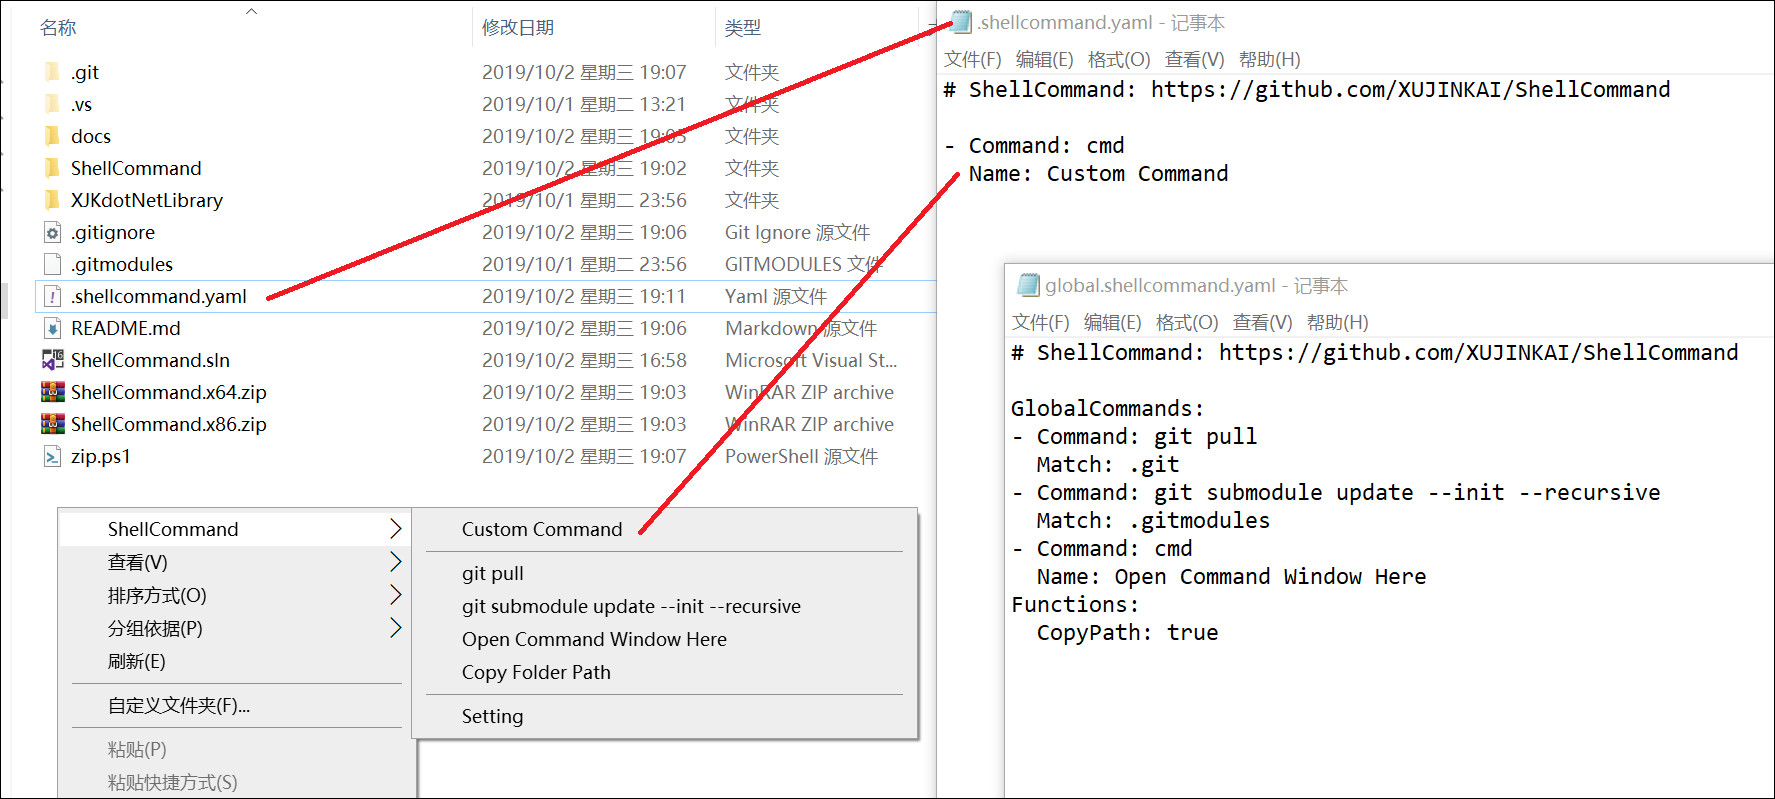
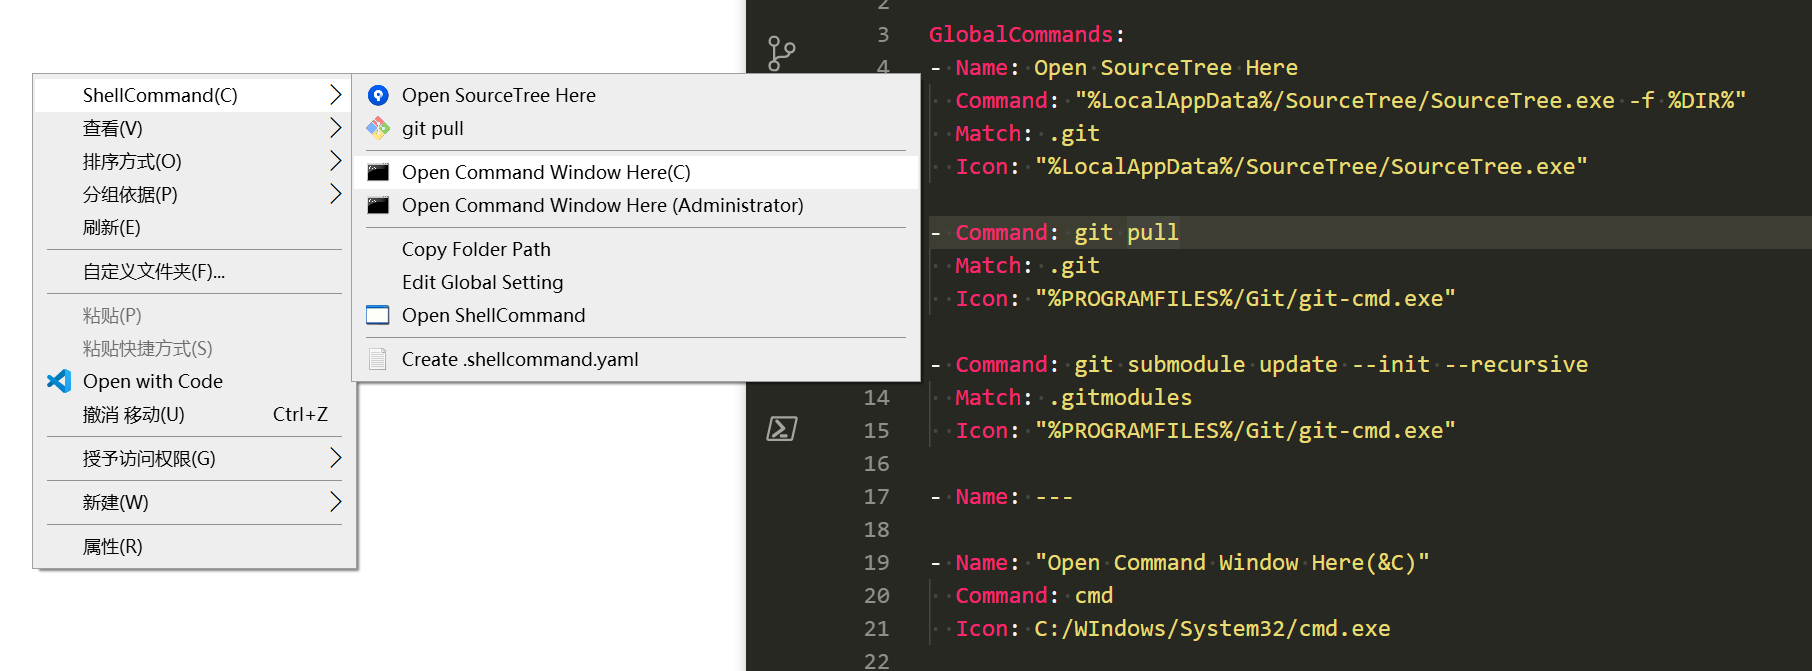
图标及文档

diff --git a/ShellCommand/Util/NativeLoader.cs b/ShellCommand/Util/NativeLoader.cs
@@ -1,0 +1,59 @@
+using System;
+using System.Collections.Generic;
+using System.Drawing;
+using System.Linq;
+using System.Runtime.InteropServices;
+using System.Text;
+using System.Threading.Tasks;
+
+namespace ShellCommand.Util
+{
+    class NativeLoader
+    {
+        public static Image LocaImage(string iconPath)
+        {
+            try
+            {
+                if (iconPath.Contains("?"))
+                {
+                    var splits = iconPath.Split('?');
+                    if (splits.Length != 2) throw new Exception("Icon Path can only have ONE '?' to select index.");
+                    var path = splits[0];
+                    var index = int.Parse(splits[1]);
+                    return ExtractDllIcon(path, index, false).ToBitmap();
+                }
+                var bitmap = Icon.ExtractAssociatedIcon(iconPath).ToBitmap();
+                bitmap = new Bitmap(bitmap, new Size(24, 24));
+                return bitmap;
+            }
+            catch (Exception ex)
+            {
+                Logger.LogException(ex);
+                return null;
+            }
+        }
+
+        public static Image GetShell32Icon(int number)
+        {
+            var shell32 = Environment.ExpandEnvironmentVariables(@"%SystemRoot%\System32\Shell32.dll");
+            return ExtractDllIcon(shell32, number, false).ToBitmap();
+        }
+
+        public static Icon ExtractDllIcon(string file, int number, bool largeIcon)
+        {
+            ExtractIconEx(file, number, out IntPtr large, out IntPtr small, 1);
+            try
+            {
+                return Icon.FromHandle(largeIcon ? large : small);
+            }
+            catch
+            {
+                return null;
+            }
+
+        }
+
+        [DllImport("Shell32.dll", EntryPoint = "ExtractIconExW", CharSet = CharSet.Unicode, ExactSpelling = true, CallingConvention = CallingConvention.StdCall)]
+        private static extern int ExtractIconEx(string sFile, int iIndex, out IntPtr piLargeVersion, out IntPtr piSmallVersion, int amountIcons);
+    }
+}

diff --git a/ShellCommand/MenuDefinition/MenuCreator.cs b/ShellCommand/MenuDefinition/MenuCreator.cs
@@ -35,7 +35,7 @@ namespace ShellCommand.MenuDefinition
             if (!File.Exists(directoryFilePath))
             {
                 list.AddSeparator();
-                list.Add(GetInitDirectoryFileMenuItem(directoryFilePath));
+                list.Add(GetCreateDirecotyCommandFileMenuItem(directoryFilePath));
             }
 
             container.DropDownItems.AddRange(list.ToArray());
@@ -56,13 +56,14 @@ namespace ShellCommand.MenuDefinition
             return item;
         }
 
-        public static ToolStripMenuItem GetInitDirectoryFileMenuItem(string path)
+        public static ToolStripMenuItem GetCreateDirecotyCommandFileMenuItem(string path)
         {
             var item = new ToolStripMenuItem(Env.CreateFolderSpecificFileText);
             item.Click += (sender, args) =>
             {
-                Util.Yaml.SaveYaml(path, DefaultSetting.GetDirectoryCommand());
+                Yaml.SaveYaml(path, DefaultSetting.GetDirectoryCommand());
             };
+            item.Image = NativeLoader.GetShell32Icon(70);
             return item;
         }
 
@@ -80,10 +81,12 @@ namespace ShellCommand.MenuDefinition
         public static ToolStripMenuItem GetOpenAppMenuItem()
         {
             var item = new ToolStripMenuItem(Env.OpenAppText);
+            var exe = Reg.GetExePath();
             item.Click += (sender, args) =>
             {
-                Cmd.RunAsInvoker(Reg.GetExePath(), "");
+                Cmd.RunAsInvoker(exe, "");
             };
+            item.Image = NativeLoader.GetShell32Icon(2);
             return item;
         }
 

diff --git a/ShellCommand/DataModel/DirectoryCommand.cs b/ShellCommand/DataModel/DirectoryCommand.cs
@@ -1,4 +1,5 @@
-using System;
+using ShellCommand.Util;
+using System;
 using System.Collections.Generic;
 using System.IO;
 using System.Linq;
@@ -16,11 +17,19 @@ namespace ShellCommand.DataModel
         public string Name { get; set; }
         public string Match { get; set; }
         public bool RunAsAdmin { get; set; }
+        public string Icon { get; set; }
+
+        public static string ExpandEnvVars(string input, string workingDir)
+        {
+            var output = Environment.ExpandEnvironmentVariables(input);
+            output = output.Replace(Env.VAR_DIR, workingDir.Replace("\\", "/"));
+            return output;
+        }
 
         public void Execute(string workingDir)
         {
-            var repcommand = Command.Replace(Env.VAR_DIR, workingDir.Replace("\\", "/"));
-            var (com, arg) = Cmd.SplitCommandArg(repcommand);
+            var exCommand = ExpandEnvVars(Command, workingDir);
+            var (com, arg) = Cmd.SplitCommandArg(exCommand);
             ProcessInfoChain ProcessInfoChain = ProcessInfoChain.New(com, arg);
             if (RunAsAdmin)
             {
@@ -70,6 +79,11 @@ namespace ShellCommand.DataModel
             {
                 Execute(workingDir);
             };
+            if (!string.IsNullOrEmpty(Icon))
+            {
+                var exIcon = ExpandEnvVars(Icon, workingDir);
+                item.Image = NativeLoader.LocaImage(exIcon);
+            }
             return item;
         }
     }

diff --git a/ShellCommand/MenuDefinition/ToolStripItemListExtension.cs b/ShellCommand/MenuDefinition/ToolStripItemListExtension.cs
@@ -42,8 +42,8 @@ namespace ShellCommand.MenuDefinition
             }
             catch(Exception ex)
             {
-                var logPath = Reg.GetLogPath();
-                File.AppendAllText(logPath, $"{Environment.NewLine}{ex.Message}{Environment.NewLine}{ex.StackTrace}");
+                Logger.LogException(ex);
+                throw;
             }
         }
 
@@ -78,8 +78,8 @@ namespace ShellCommand.MenuDefinition
             }
             catch (Exception ex)
             {
-                var logPath = Reg.GetLogPath();
-                File.AppendAllText(logPath, $"{Environment.NewLine}{ex.Message}{Environment.NewLine}{ex.StackTrace}");
+                Logger.LogException(ex);
+                throw;
             }
         }
     }

diff --git a/ShellCommand/Util/Logger.cs b/ShellCommand/Util/Logger.cs
@@ -1,0 +1,18 @@
+using System;
+using System.Collections.Generic;
+using System.IO;
+using System.Linq;
+using System.Text;
+using System.Threading.Tasks;
+
+namespace ShellCommand.Util
+{
+    static class Logger
+    {
+        public static void LogException(Exception ex)
+        {
+            var logPath = Reg.GetLogPath();
+            File.AppendAllText(logPath, $"{Environment.NewLine}{ex.Message}{Environment.NewLine}{ex.StackTrace}");
+        }
+    }
+}

diff --git a/ShellCommand/Util/Reg.cs b/ShellCommand/Util/Reg.cs
@@ -28,7 +28,7 @@ namespace ShellCommand.Util
 
         public static string GetLogPath()
         {
-            using var key = Registry.LocalMachine.CreateSubKey(SUBKEY);
+            using var key = Registry.LocalMachine.OpenSubKey(SUBKEY);
             return key.GetValue("LogPath") as string;
         }
 

diff --git a/README.md b/README.md
@@ -1,19 +1,43 @@
 # ShellCommand
 
-Customize your context menu by Single file.
+Customize your context menu.
 
-![](/docs/screenshot.png)
+![screenshot](/docs/screenshot.png)
 
 ## Feature
 
 - Custom one folder's context menu by `.shellcommand.yaml`
 - Custom global context menu by `global.shellcommand.yaml`
-- Command Support %DIR% variable
-- Command Support Wildcard syntax !?*
+- Support Environment variable
+- Support Wildcard syntax !?* Match
+- Support Menu Item Icon
 
 ## Usage
 
 Open ShellCommand.exe, Click Install, Bingo!
+
+### Command
+
+Support [all windows variables](https://pureinfotech.com/list-environment-variables-windows-10/) like `%LocalAppData%`,
+
+Plus, `%DIR%` stands for current folder.
+
+### Match
+
+- If not null, checks if current folder have the name (file or directory)
+- Starts by ! for NOT have the name
+- use ? and * for wildcard
+
+### Icon
+
+- Exe associated icon
+- Dll resource, use `?index` for index number
+    e.g. `%SystemRoot%\System32\Shell32.dll?3`
+
+### Name
+
+- `---` for separator
+- If ignored, command text will be used.
 
 ## Known Issues
 
